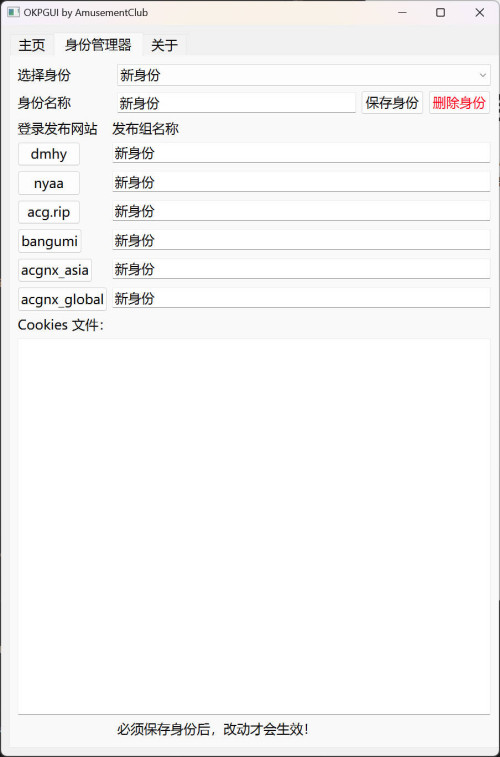
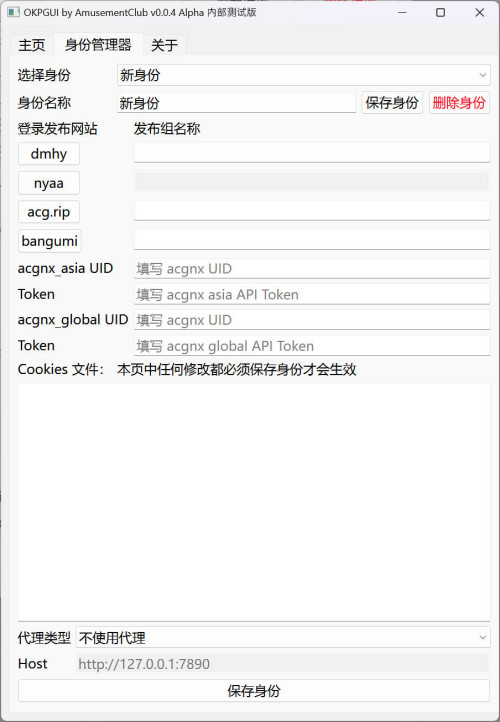
update readme

diff --git a/README.md b/README.md
@@ -1,11 +1,12 @@
 # OKPGUI
-A pyqt6 gui for OKP
+
+此软件为 [OKP](https://github.com/AmusementClub/OKP/) 的 GUI，由娱乐部制作，用于快速在多个 BT 资源站发布种子。
 
 ## 使用方法
 
 ### 快速开始
 
-1. 将程序`OKPGUI.exe`复制到`OKP.Core.exe`的同一个文件夹下，并打开程序。
+1. 将程序`OKPGUI.exe`复制到`OKP.Core.exe`的同一个文件夹下，并打开程序。请[点此下载](https://github.com/AmusementClub/OKP/actions)最新版 OKP。
    
 2. 第一次使用时，请先使用身份管理器创建一个新的身份，一个身份中包含了你的 Cookies 信息。
    点击`身份管理器`进入身份管理器页面。
@@ -23,31 +24,37 @@ A pyqt6 gui for OKP
    
    ![](image/ProfileManager02.jpg)
 
-7. 在登完所有需要的网站之后，点击`保存身份`，使身份信息（cookies）得到保存。
+7. 对于 [acgnx_asia](https://share.acgnx.se/) 和 [acgnx_global](https://www.acgnx.se/)，请前往「发布资源 - 账户 API 设置」中，将 UID 和 API Token 填入对应的文本框中。注意，在填写后必须点击`保存身份`才会生效。
 
-8. 然后，我们可以点击`主页`回到主页，并创建一个新的模板。
+   ![](image/acgnx.jpg)
 
-9.  在一开始，我们还是在`模板名称`中给你的模板起个名字，例如说`Onimai`。
+   ![](image/ProfileManager03.jpg)
 
-10. 点击`浏览`打开一个种子文件，或者也可以直接把种子文件拖放到窗口中。
+8. 在登录完所有需要的网站之后，点击`保存身份`，使身份信息（cookies）得到保存。
 
-11. 在`标题`一栏中填入发布标题，例如说`[SweetSub&LoliHouse] 不当哥哥了！/ Oniichan ha Oshimai! - 01 [WebRip 1080p HEVC-10bit AAC][简繁日内封字幕]`
+9.  然后，我们可以点击`主页`回到主页，并创建一个新的模板。
 
-12. 如果要发布在动漫花园，在`海报链接`一栏填入海报的 url，如果要发布 nyaa，可以在`关于`里面填入 about 信息。
+10. 在一开始，我们还是在`模板名称`中给你的模板起个名字，例如说`Onimai`。
 
-13. `Tags`一栏可以填写标签，以逗号分隔开，例如在发布合集时填写 `Anime, Collection`。平时发布单集时填写 `Anime` 即可。该标签决定了资源在各个网站的分类，所有支持的标签和详细规则请参考 [OKP 的 wiki](https://github.com/AmusementClub/OKP/wiki/TagsConvert)。
+11. 点击`浏览`打开一个种子文件，或者也可以直接把种子文件拖放到窗口中。
 
-14. `集数匹配`和`标题匹配`是选填项，其使用方法请[参考此处](#标题匹配)。
+12. 在`标题`一栏中填入发布标题，例如说`[SweetSub&LoliHouse] 不当哥哥了！/ Oniichan ha Oshimai! - 01 [WebRip 1080p HEVC-10bit AAC][简繁日内封字幕]`
 
-15. 在`内容`栏中使用 markdown 格式填写发布贴的详细内容，填写完毕后点击`预览`按钮可以预览其显示效果。
+13. 如果要发布在动漫花园，在`海报链接`一栏填入海报的 url，如果要发布在 nyaa.si，可以在`关于`里面填入 about 信息。
 
-16. 在选择身份的选单中选择发布时使用的身份，我们选择刚才在身份管理器中创建的`LoliHouse`身份，如果需要其他的身份，请去身份管理器中创建。
+14. `Tags`一栏可以填写标签，以逗号分隔开，例如在发布合集时填写 `Anime, Collection`（逗号后是否空格不会影响程序判断）。平时发布单集时填写 `Anime` 即可。该标签决定了资源在各个网站的分类，所有支持的标签和详细规则请参考 [OKP 的 wiki](https://github.com/AmusementClub/OKP/wiki/TagsConvert)。
 
-17. 在下发需要发布的站点的复选框中打钩。
+15. `集数匹配`和`标题匹配`是选填项，其使用方法请[参考此处](#标题匹配)。
 
-18. 别忘了保存此模板。
+16. 在`内容`栏中使用 markdown 格式填写发布贴的详细内容，填写完毕后点击`预览`按钮可以预览其显示效果。
 
-19. 点击`One Key Publish!`呼出 OKP 一键发布，在 OKP 打开的控制台中，确认发布的标题和种子文件，敲下回车键即可确认发布。
+17. 在`选择身份`的选单中选择发布时使用的身份，我们选择刚才在身份管理器中创建的`LoliHouse`身份，如果需要其他的身份，请移步至身份管理器中创建。
+
+18. 在下方需要发布的站点的复选框中打钩。
+
+19. 发布时不需要保存模板，程序会根据目前文本框中的内容和选项来发布，但如果想要下次重复利用此模板，请别忘记了保存模板。
+
+20. 点击`One Key Publish!`呼出 OKP 一键发布，在 OKP 打开的控制台中，确认发布的标题和种子文件，敲下回车键即可确认发布。
 
 ![](image/Home01.jpg)
 
@@ -55,47 +62,60 @@ A pyqt6 gui for OKP
 
 ### 其他功能
 
-#### 标题匹配
+#### 1. 标题匹配
 
 此功能是为了可以方便地根据种子文件名中的信息自动生成不同的发布标题。
 
 
 例如说我们有一个种子文件，其名称为
 
-`[SweetSub] Oniichan ha Oshimai! - 01 [WebRip][1080P][AVC 8bit][CHS].mp4.torrent`
+```[SweetSub] Oniichan ha Oshimai! - 01 [WebRip][1080P][AVC 8bit][CHS].mp4.torrent```
 
 然后我们还有其不同分辨率，不同集数的版本，例如说：
 
-`[SweetSub] Oniichan ha Oshimai! - 01 [WebRip][720P][AVC 8bit][CHS].mp4.torrent`
+```[SweetSub] Oniichan ha Oshimai! - 01 [WebRip][720P][AVC 8bit][CHS].mp4.torrent```
 
-`[SweetSub] Oniichan ha Oshimai! - 02 [WebRip][1080P][AVC 8bit][CHS].mp4.torrent`
+```[SweetSub] Oniichan ha Oshimai! - 02 [WebRip][1080P][AVC 8bit][CHS].mp4.torrent```
 
 我们不想重复地手动更改发布标题，这样非常麻烦。标题匹配功能可以在种子文件中寻找需要的信息并填写到标题中。
 
-#### 使用方法：
+##### 使用方法：
 
 在集数匹配一栏中，把文件名中的重要信息用 `<>` 标签替换，并在其中填入字符来命名，例如说
 
-集数匹配：`[SweetSub] Oniichan ha Oshimai! - <ep> [WebRip][<res>P][AVC 8bit]`
+集数匹配：
+```[SweetSub] Oniichan ha Oshimai! - <ep> [WebRip][<res>P][AVC 8bit]```
 
 我们再在标题匹配中以 `<>` 标签替换相应的值
 
-标题匹配：`[SweetSub][不当哥哥了！][Oniichan ha Oshimai!][<ep>][WebRip][<res>P][AVC 8bit][简日双语][无修版]`
+标题匹配：
+```[SweetSub][不当哥哥了！][Oniichan ha Oshimai!][<ep>][WebRip][<res>P][AVC 8bit][简日双语][无修版]```
 
 如果我们此时添加一个种子文件
 
-例如 `[SweetSub] Oniichan ha Oshimai! - 01 [WebRip][720P][AVC 8bit][CHS].mp4.torrent`
+例如 
+```[SweetSub] Oniichan ha Oshimai! - 01 [WebRip][720P][AVC 8bit][CHS].mp4.torrent```
 
 程序会根据种子文件的`文件名`和`集数匹配`中的字符串来确定 `<ep>` 的值为 `01`，`<res>` 的值为 `720`
 
 这些值会被自动代入到`标题匹配`的模板中，程序会自动生成发布标题
 
-`[SweetSub][不当哥哥了！][Oniichan ha Oshimai!][01][WebRip][720P][AVC 8bit][简日双语][无修版]`
+```[SweetSub][不当哥哥了！][Oniichan ha Oshimai!][01][WebRip][720P][AVC 8bit][简日双语][无修版]```
 
 注意：
 1. 虽然例子中只用了`<ep>`和`<res>`，但你可以使用任意数量的`<>`标签，里面可以填写任意英文单词。
 2. 因为没有设置转义，所以如果发布标题中使用了`<>`，则不可以使用标题匹配的功能。
-3. 程序只会在添加文件种子时，或者是在更改模板时重新计算标题。
+
+
+#### 2. 代理
+
+为了方便对抗 GFW，程序内置了 HTTP 代理功能。
+
+在身份管理器中选择代理类型 HTTP，并且在 Host 一栏中填入 HTTP 代理的地址，例如说 `http://127.0.0.1:7890`，然后点击`保存身份`，即可在访问网站时使用代理，同时，该代理也会直接传给 OKP.Core 所使用。
+
+注意，代理的任何改动**必须**点击`保存身份`后才会生效。
+
+#### 3. 
 
 ---
 
